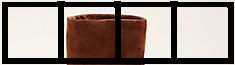
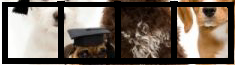
Tweaked and cleaned it up.

diff --git a/image-generator/image_manipulation.js b/image-generator/image_manipulation.js
@@ -13,28 +13,35 @@ const generateImage = () => {
     Jimp.read('./images/tetrisPiece_01.png')
         .then( tetrisPiece => {
             tp = tetrisPiece;
-            client.search('boots', {
-                page: 3,
+            return client.search('puppy', {
+                page: 1,
                 size: "medium",
                 type: "photo",
-                dominantColor: "brown",
+                // dominantColor: "brown",
                 colorType: "color"
-            })
-            .then(images => Jimp.read(images[1].url))
-            .then(image => {
-                image.crop(0,0,235, 65);
+            });
+        })
+        .then(images => {
+            if (images.length > 0) {
+                let index = Math.floor(Math.random() * images.length);
+                console.log(index);
+                return Jimp.read(images[index].url);
+            }
+        })
+        .then(image => {
+            if (image) {
+                let x = Math.floor(Math.random() * (image.getWidth() - tp.getWidth()));
+                let y = Math.floor(Math.random() * (image.getHeight() - tp.getHeight()));;
+                image.crop(x,y, tp.getWidth(), tp.getHeight());
                 image.mask(tp, 0, 0);
                 image.write("./images/copositeOut.jpg");
-            })
-            .catch(err => {
-                console.log(err);
-            });
+            } else {
+                console.log("No image results returned");
+            }
         })
         .catch(err => {
             console.log(err);
-        });
-
-    
+        });    
     
 }
 
